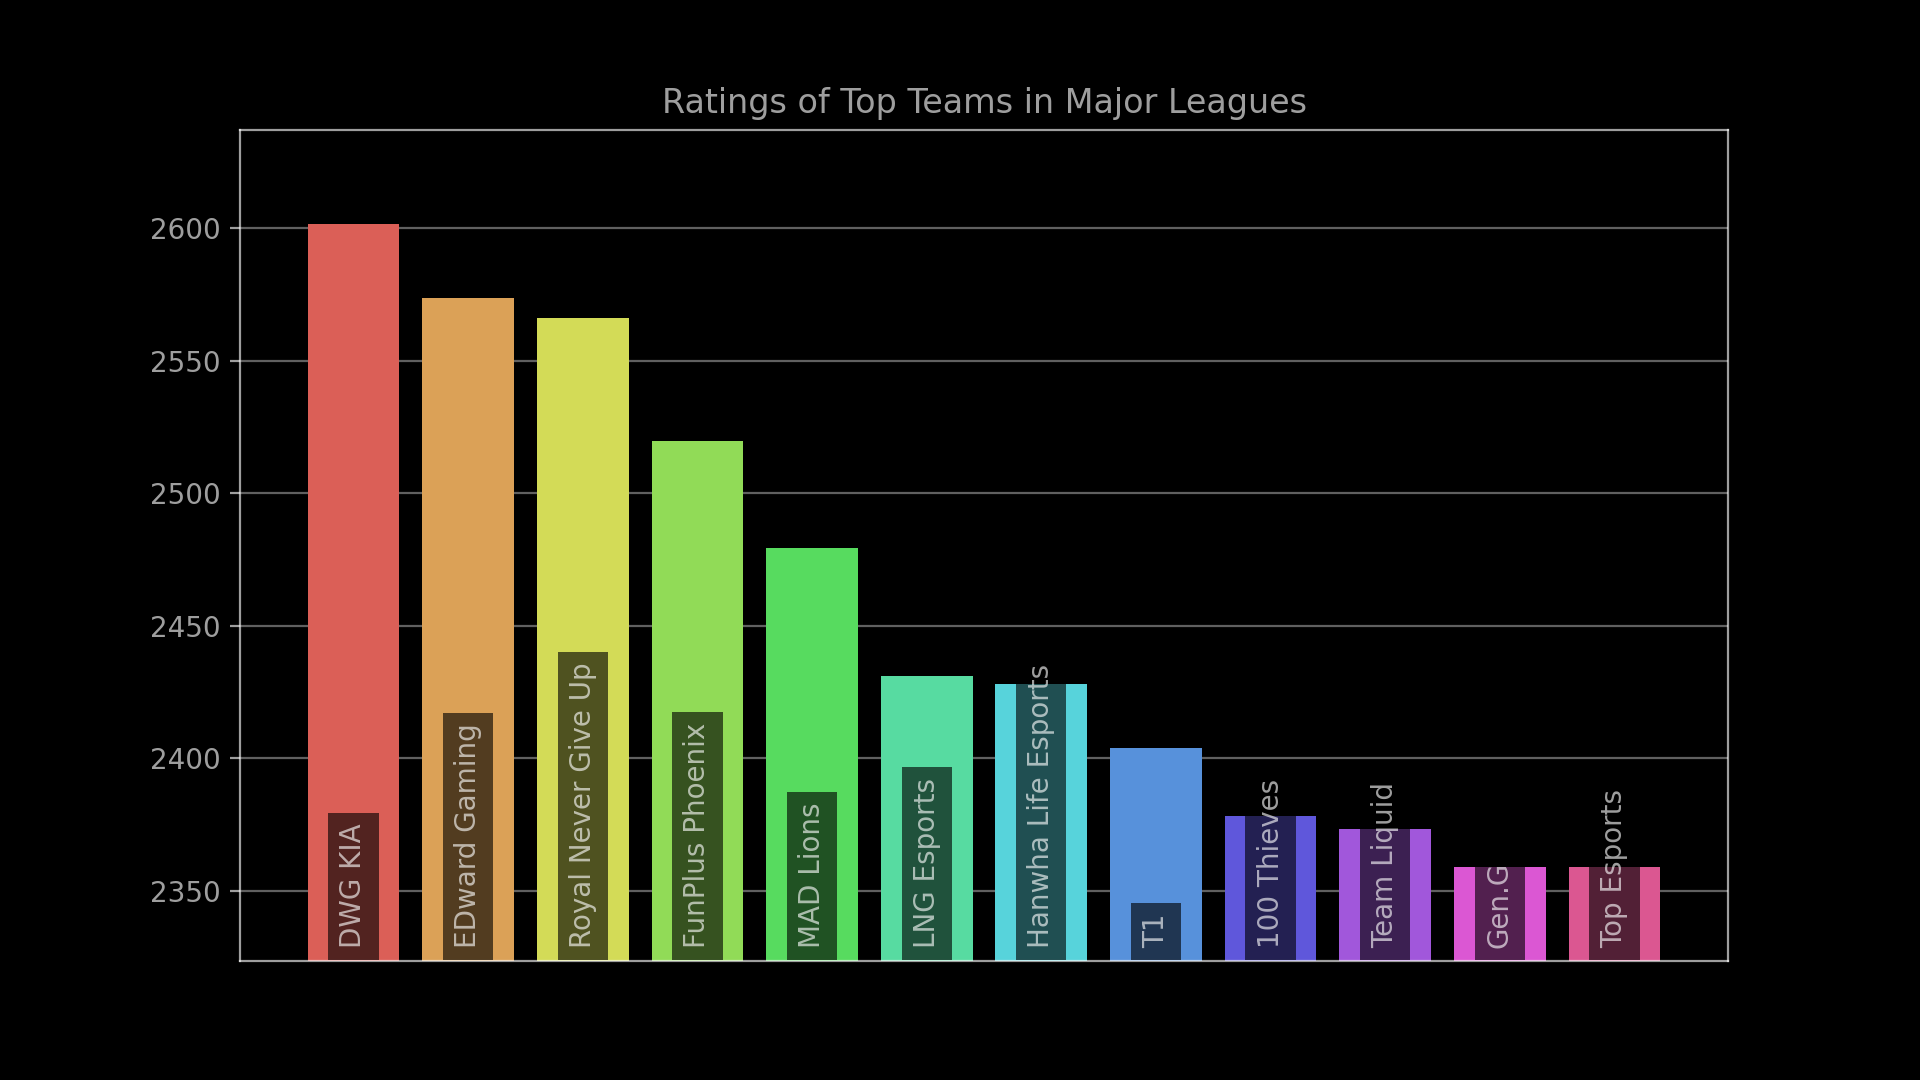
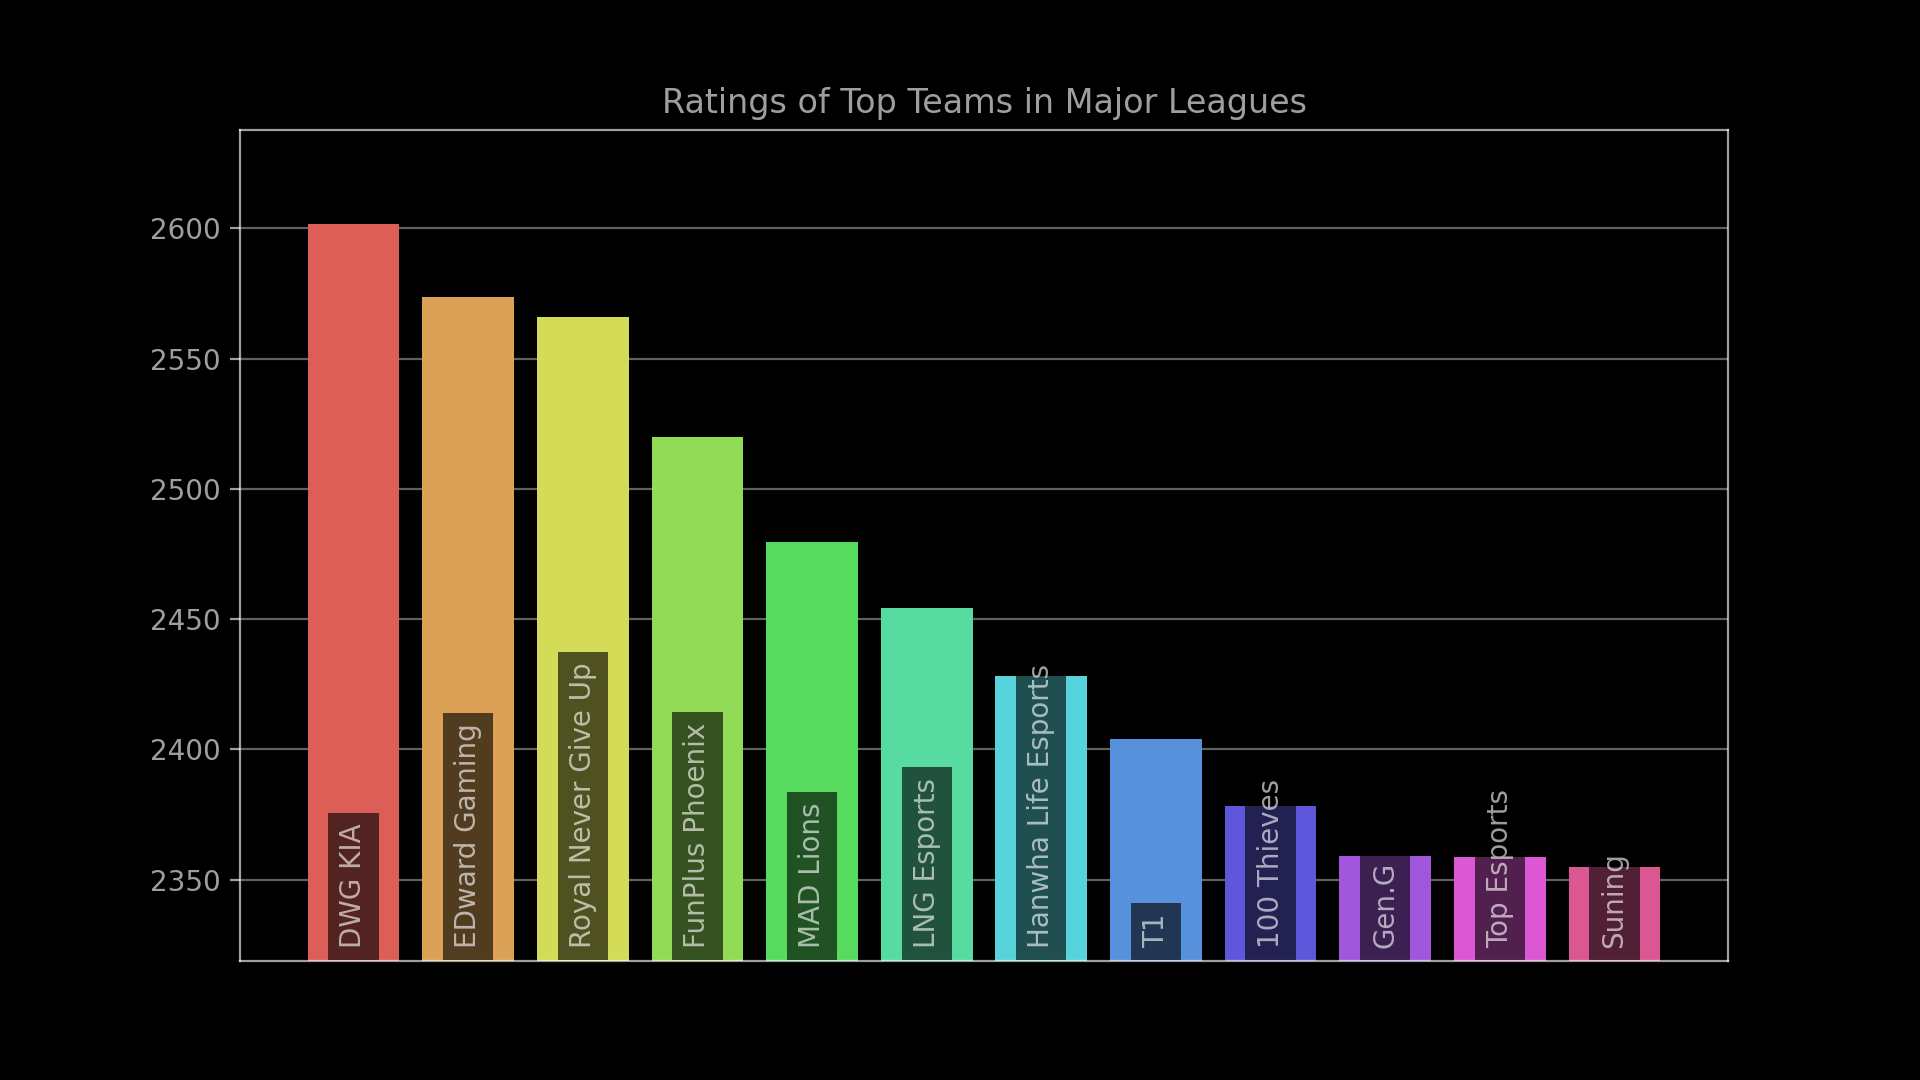
Update rating charts for 2021-10-12 20:00:00.

diff --git a/index.html b/index.html
@@ -82,16 +82,16 @@
             <tr><td style="text-align: right">4</td><td class="name">FunPlus Phoenix</td><td class="league" style="text-align: center">LPL</td><td class="rating" style="text-align: center">2519.7</td><td class="diff" style="text-align: center; white-space: nowrap"><span style="color: #4CAF50">&plus;7.2</span></td></tr>
             <tr><td style="text-align: right">5</td><td class="name">PSG Talon</td><td class="league" style="text-align: center">PCS</td><td class="rating" style="text-align: center">2501.2</td><td class="diff" style="text-align: center; white-space: nowrap"><span style="color: #4CAF50">&plus;24.2</span></td></tr>
             <tr><td style="text-align: right">6</td><td class="name">MAD Lions</td><td class="league" style="text-align: center">LEC</td><td class="rating" style="text-align: center">2479.5</td><td class="diff" style="text-align: center; white-space: nowrap"><span style="color: #4CAF50">&plus;6.0</span></td></tr>
-            <tr><td style="text-align: right">7</td><td class="name">LNG Esports</td><td class="league" style="text-align: center">LPL</td><td class="rating" style="text-align: center">2431.1</td><td class="diff" style="text-align: center; white-space: nowrap"><span style="color: #F44336">&minus;32.7</span></td></tr>
+            <tr><td style="text-align: right">7</td><td class="name">LNG Esports</td><td class="league" style="text-align: center">LPL</td><td class="rating" style="text-align: center">2454.5</td><td class="diff" style="text-align: center; white-space: nowrap"><span style="color: #F44336">&minus;9.3</span></td></tr>
             <tr><td style="text-align: right">8</td><td class="name">Hanwha Life Esports</td><td class="league" style="text-align: center">LCK</td><td class="rating" style="text-align: center">2428.1</td><td class="diff" style="text-align: center; white-space: nowrap"><span style="color: #4CAF50">&plus;98.1</span></td></tr>
             <tr><td style="text-align: right">9</td><td class="name">T1</td><td class="league" style="text-align: center">LCK</td><td class="rating" style="text-align: center">2404.0</td><td class="diff" style="text-align: center; white-space: nowrap"><span style="color: #F44336">&minus;9.5</span></td></tr>
             <tr><td style="text-align: right">10</td><td class="name">100 Thieves</td><td class="league" style="text-align: center">LCS</td><td class="rating" style="text-align: center">2378.3</td><td class="diff" style="text-align: center; white-space: nowrap"><span style="color: #4CAF50">&plus;25.0</span></td></tr>
-            <tr><td style="text-align: right">11</td><td class="name">Team Liquid</td><td class="league" style="text-align: center">LCS</td><td class="rating" style="text-align: center">2373.2</td><td class="diff" style="text-align: center; white-space: nowrap"><span style="color: #4CAF50">&plus;32.2</span></td></tr>
-            <tr><td style="text-align: right">12</td><td class="name">Gen.G</td><td class="league" style="text-align: center">LCK</td><td class="rating" style="text-align: center">2359.0</td><td class="diff" style="text-align: center; white-space: nowrap"><span style="color: #F44336">&minus;5.4</span></td></tr>
-            <tr><td style="text-align: right">13</td><td class="name">Top Esports</td><td class="league" style="text-align: center">LPL</td><td class="rating" style="text-align: center">2358.8</td><td class="diff" style="text-align: center; white-space: nowrap"></td></tr>
-            <tr><td style="text-align: right">14</td><td class="name">Suning</td><td class="league" style="text-align: center">LPL</td><td class="rating" style="text-align: center">2354.8</td><td class="diff" style="text-align: center; white-space: nowrap"></td></tr>
-            <tr><td style="text-align: right">15</td><td class="name">Team WE</td><td class="league" style="text-align: center">LPL</td><td class="rating" style="text-align: center">2340.1</td><td class="diff" style="text-align: center; white-space: nowrap"></td></tr>
-            <tr><td style="text-align: right">16</td><td class="name">Cloud9</td><td class="league" style="text-align: center">LCS</td><td class="rating" style="text-align: center">2339.0</td><td class="diff" style="text-align: center; white-space: nowrap"><span style="color: #F44336">&minus;29.3</span></td></tr>
+            <tr><td style="text-align: right">11</td><td class="name">Gen.G</td><td class="league" style="text-align: center">LCK</td><td class="rating" style="text-align: center">2359.0</td><td class="diff" style="text-align: center; white-space: nowrap"><span style="color: #F44336">&minus;5.4</span></td></tr>
+            <tr><td style="text-align: right">12</td><td class="name">Top Esports</td><td class="league" style="text-align: center">LPL</td><td class="rating" style="text-align: center">2358.8</td><td class="diff" style="text-align: center; white-space: nowrap"></td></tr>
+            <tr><td style="text-align: right">13</td><td class="name">Suning</td><td class="league" style="text-align: center">LPL</td><td class="rating" style="text-align: center">2354.8</td><td class="diff" style="text-align: center; white-space: nowrap"></td></tr>
+            <tr><td style="text-align: right">14</td><td class="name">Team WE</td><td class="league" style="text-align: center">LPL</td><td class="rating" style="text-align: center">2340.1</td><td class="diff" style="text-align: center; white-space: nowrap"></td></tr>
+            <tr><td style="text-align: right">15</td><td class="name">Cloud9</td><td class="league" style="text-align: center">LCS</td><td class="rating" style="text-align: center">2339.0</td><td class="diff" style="text-align: center; white-space: nowrap"><span style="color: #F44336">&minus;29.3</span></td></tr>
+            <tr><td style="text-align: right">16</td><td class="name">Team Liquid</td><td class="league" style="text-align: center">LCS</td><td class="rating" style="text-align: center">2337.4</td><td class="diff" style="text-align: center; white-space: nowrap"><span style="color: #F44336">&minus;3.7</span></td></tr>
             <tr><td style="text-align: right">17</td><td class="name">Rogue </td><td class="league" style="text-align: center">LEC</td><td class="rating" style="text-align: center">2333.4</td><td class="diff" style="text-align: center; white-space: nowrap"><span style="color: #4CAF50">&plus;9.2</span></td></tr>
             <tr><td style="text-align: right">18</td><td class="name">Bilibili Gaming</td><td class="league" style="text-align: center">LPL</td><td class="rating" style="text-align: center">2318.9</td><td class="diff" style="text-align: center; white-space: nowrap"></td></tr>
             <tr><td style="text-align: right">19</td><td class="name">G2 Esports</td><td class="league" style="text-align: center">LEC</td><td class="rating" style="text-align: center">2313.3</td><td class="diff" style="text-align: center; white-space: nowrap"></td></tr>

diff --git a/assets/js/chart-config.js b/assets/js/chart-config.js
@@ -3,10 +3,10 @@ const MONTH_ABBREVIATIONS = ["Jan", "Feb", "Mar", "Apr", "May", "Jun", "Jul", "A
 const topChartConfig = {
     type: "bar",
     data: {
-        labels: ['DWG KIA', 'EDward Gaming', 'Royal Never Give Up', 'FunPlus Phoenix', 'MAD Lions', 'LNG Esports', 'Hanwha Life Esports', 'T1', '100 Thieves', 'Team Liquid', 'Gen.G', 'Top Esports'],
+        labels: ['DWG KIA', 'EDward Gaming', 'Royal Never Give Up', 'FunPlus Phoenix', 'MAD Lions', 'LNG Esports', 'Hanwha Life Esports', 'T1', '100 Thieves', 'Gen.G', 'Top Esports', 'Suning'],
         datasets: [{
             backgroundColor: ['#dc5f57', '#dca157', '#d4dc57', '#91dc57', '#57dc5f', '#57dca1', '#57d4dc', '#5791dc', '#5f57dc', '#a157dc', '#dc57d4', '#dc5791'],
-            data: [2601.7767231817234, 2573.7372562153205, 2565.96242673851, 2519.719206179836, 2479.508133160009, 2431.0768523745746, 2428.057327693735, 2403.9727882863267, 2378.300928601394, 2373.235365010657, 2359.026196157492, 2358.8275642289427],
+            data: [2601.7767231817234, 2573.7372562153205, 2565.96242673851, 2519.719206179836, 2479.508133160009, 2454.4596459653153, 2428.057327693735, 2403.9727882863267, 2378.300928601394, 2359.026196157492, 2358.8275642289427, 2354.8123246379455],
             label: "Rating Points"
         }]
     },
@@ -34,8 +34,8 @@ const topChartConfig = {
                 }
             },
             y: {
-                max: 2637,
-                min: 2323
+                max: 2638,
+                min: 2319
             }
         }
     }

diff --git a/README.md b/README.md
@@ -50,16 +50,16 @@ confidence interval of the rating.
 | 3 | Royal Never Give Up | 2566.0 | 91.6 |
 | 4 | FunPlus Phoenix | 2519.7 | 88.1 |
 | 5 | MAD Lions | 2479.5 | 91.3 |
-| 6 | LNG Esports | 2431.1 | 76.4 |
+| 6 | LNG Esports | 2454.5 | 74.2 |
 | 7 | Hanwha Life Esports | 2428.1 | 66.9 |
 | 8 | T1 | 2404.0 | 83.8 |
 | 9 | 100 Thieves | 2378.3 | 86.8 |
-| 10 | Team Liquid | 2373.2 | 93.3 |
-| 11 | Gen.G | 2359.0 | 89.4 |
-| 12 | Top Esports | 2358.8 | 71.2 |
-| 13 | Suning | 2354.8 | 69.8 |
-| 14 | Team WE | 2340.1 | 61.8 |
-| 15 | Cloud9 | 2339.0 | 66.0 |
+| 10 | Gen.G | 2359.0 | 89.4 |
+| 11 | Top Esports | 2358.8 | 71.2 |
+| 12 | Suning | 2354.8 | 69.8 |
+| 13 | Team WE | 2340.1 | 61.8 |
+| 14 | Cloud9 | 2339.0 | 66.0 |
+| 15 | Team Liquid | 2337.4 | 88.3 |
 | 16 | Rogue (European Team) | 2333.4 | 93.8 |
 | 17 | Bilibili Gaming | 2318.9 | 73.6 |
 | 18 | G2 Esports | 2313.3 | 79.1 |
